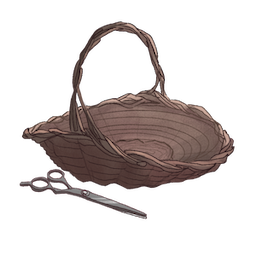
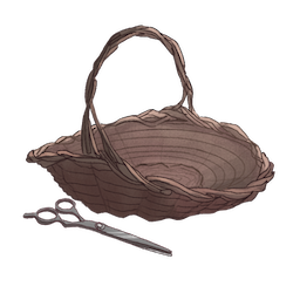
grey basket

diff --git a/core/src/root/GameMode.java b/core/src/root/GameMode.java
@@ -153,6 +153,7 @@ public class GameMode extends Mode implements Screen {
     private static final String GREY_SPOOL = "entities/spool_grey.png";
     private static final String STUFFING = "entities/stuffing.png";
     private static final String GREY_STUFFING = "entities/stuffing_grey.png";
+    private static final String GREY_BASKET = "entities/grey_basket.png";
     private static final String[] cityItems = {"entities/needles.png", "entities/yarn.png", "entities/yarn.png"};
     private static final String[] greyCityItems = {"entities/needles_grey.png", "entities/skein_grey.png", "entities/skein_grey.png"};
     private static final String[] villageItems = {"entities/spool.png", "entities/yarn.png", "entities/yarn.png"};
@@ -487,6 +488,8 @@ public class GameMode extends Mode implements Screen {
         assets.add(STUFFING);
         manager.load(GREY_STUFFING, Texture.class);
         assets.add(GREY_STUFFING);
+        manager.load(GREY_BASKET, Texture.class);
+        assets.add(GREY_BASKET);
         manager.load(BASKET_EMPTY, Texture.class);
         assets.add(BASKET_EMPTY);
         manager.load(CITY_TILE_FILE, Texture.class);
@@ -730,7 +733,7 @@ public class GameMode extends Mode implements Screen {
                 }
                 if (level.getLevel() == 1) {
                     itemTexture.add(createTexture(manager, BASKET_EMPTY, false));
-                    greyItemTexture.add(createTexture(manager, GREY_YARN, false));
+                    greyItemTexture.add(createTexture(manager, GREY_BASKET, false));
                     itemNames.add("basket");
                 } else {
                     for (String s : cityItems) {
